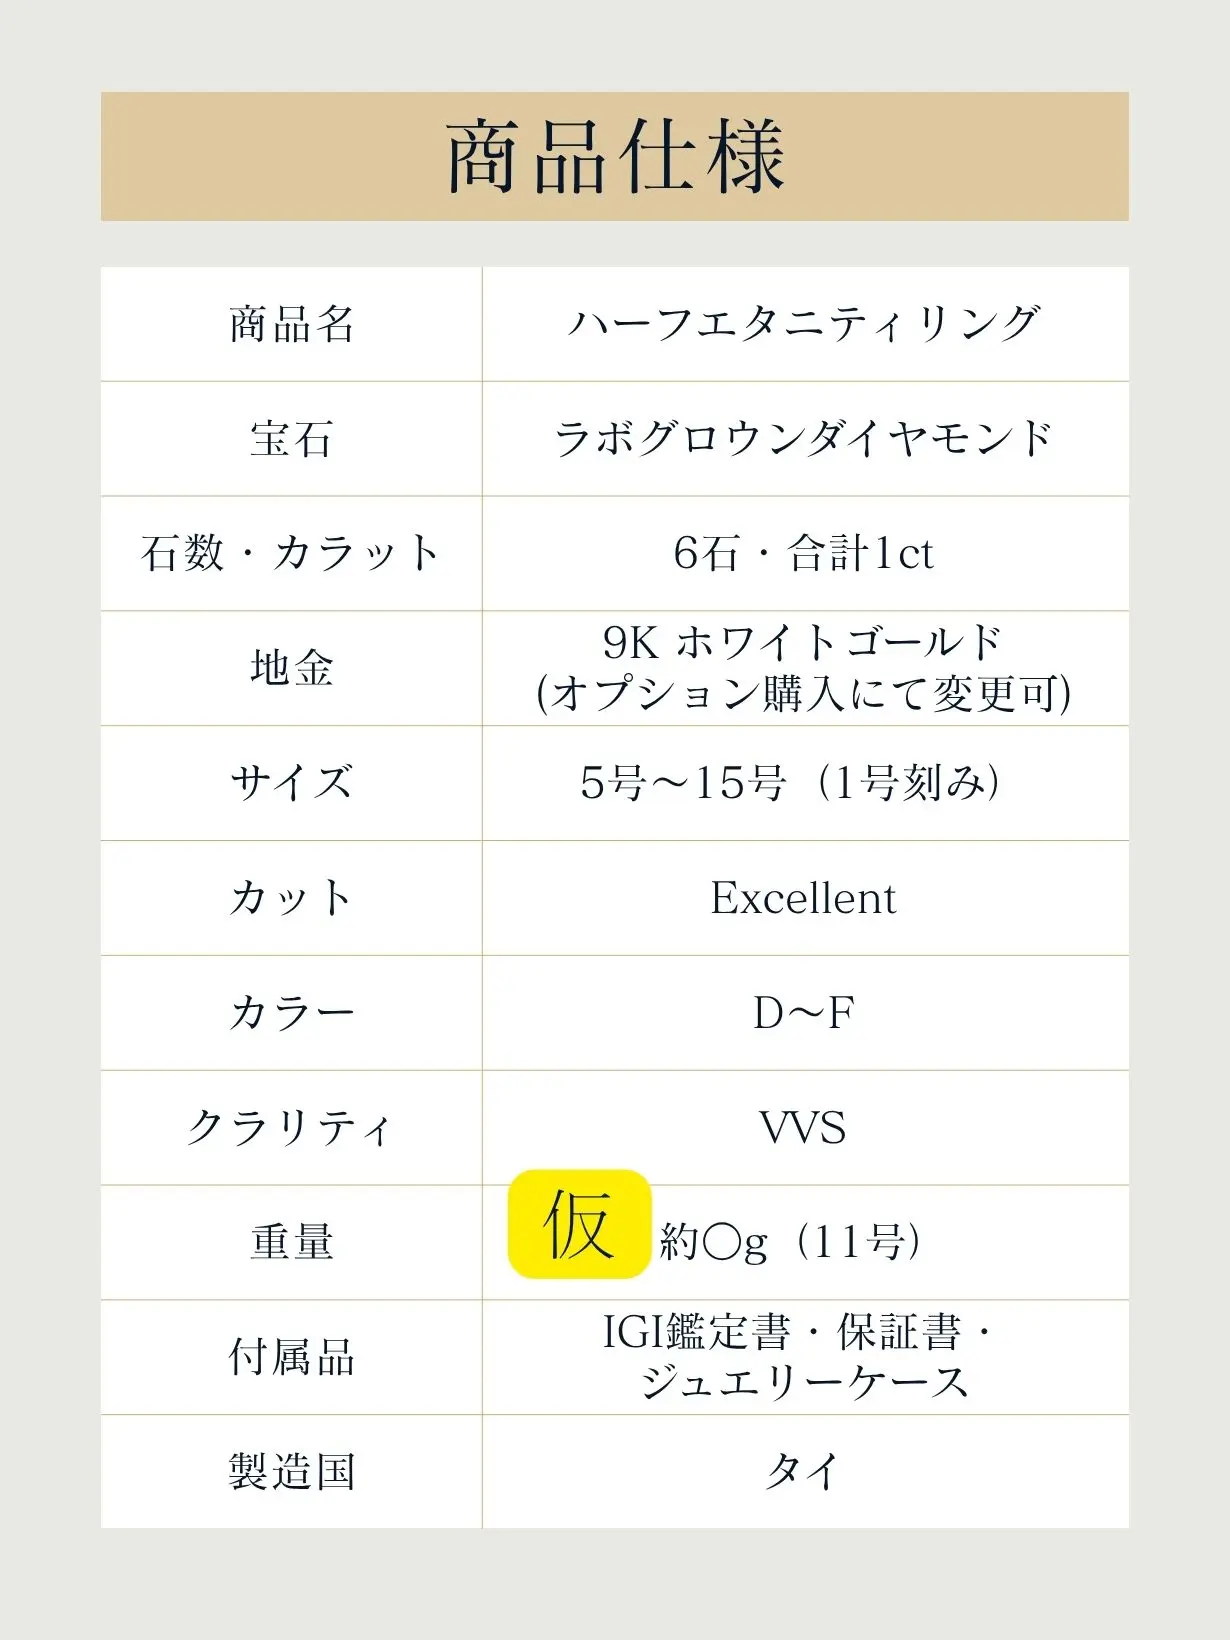
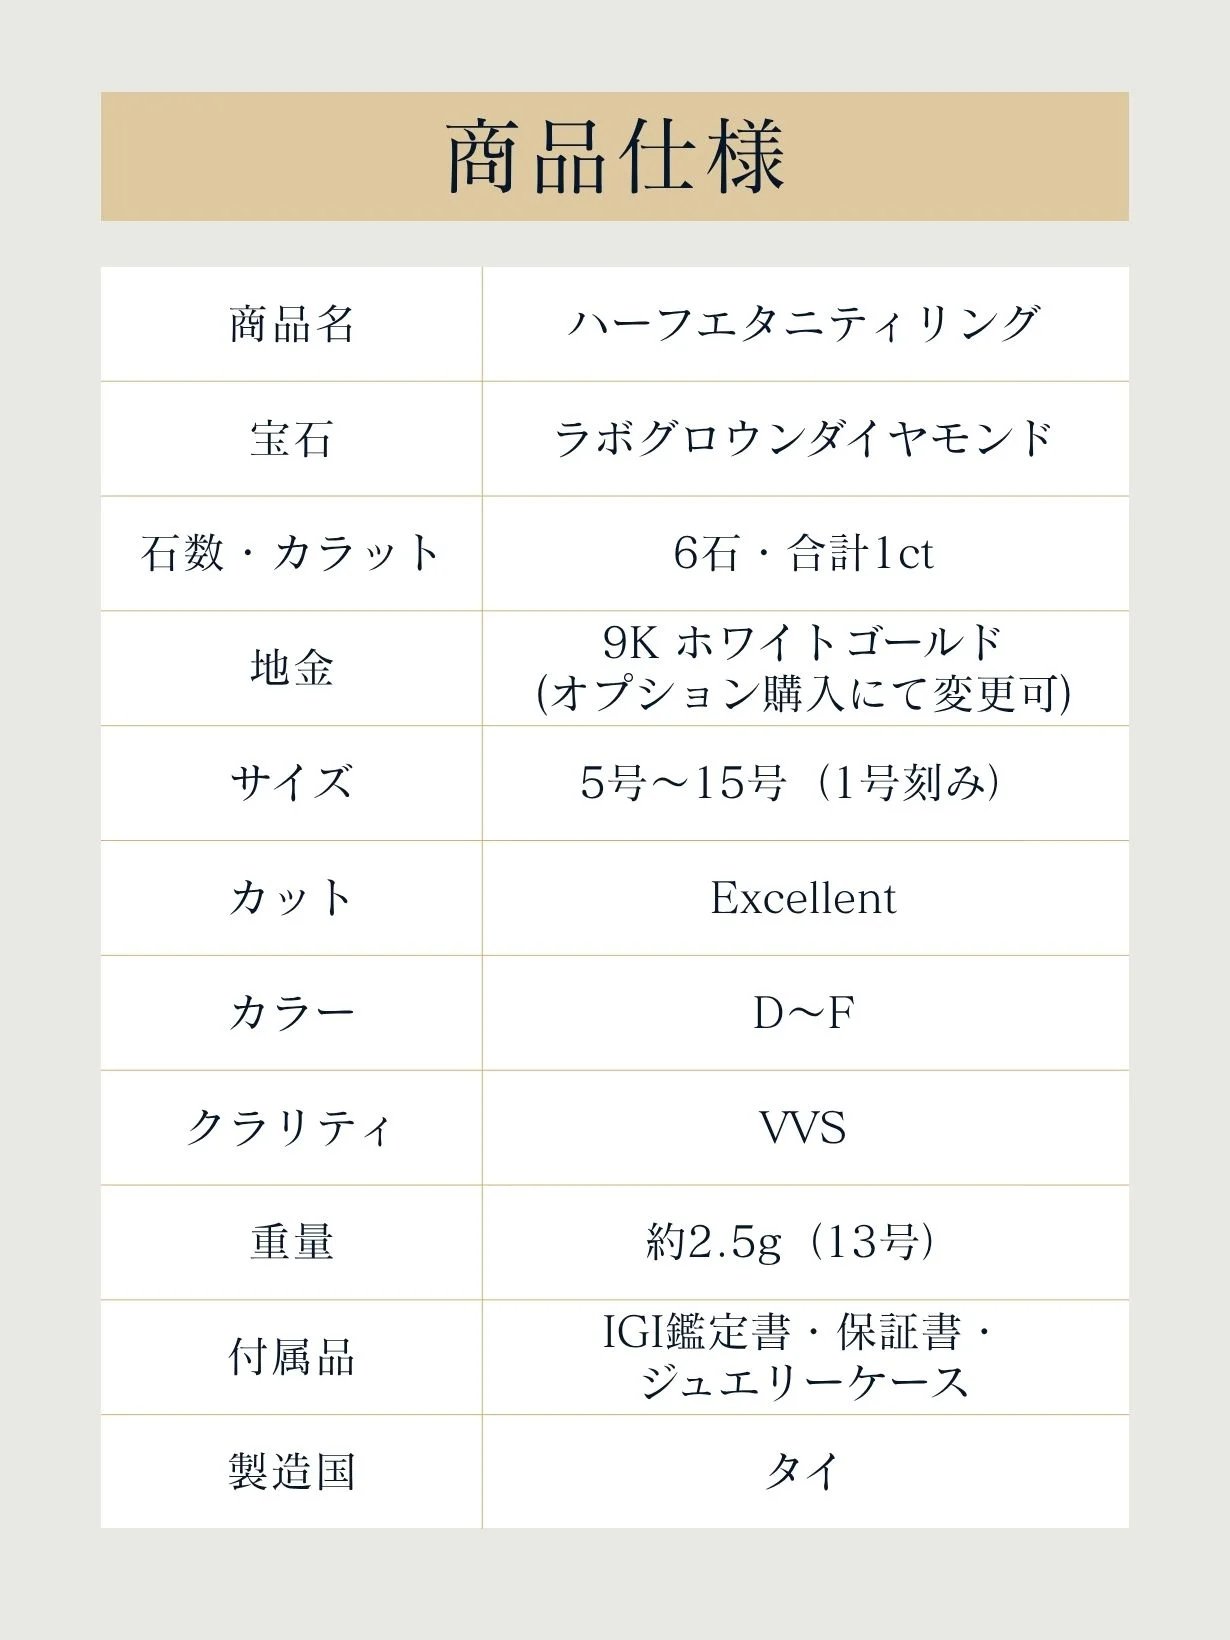
商品仕様の重量を仮表記から確定値(約2.5g・13号)に更新

Changed region(s): [[0.4016, 0.6841, 0.7724, 0.8085]]

diff --git a/index.html b/index.html
@@ -18,7 +18,7 @@
 .line-float.is-visible{opacity:1;visibility:visible;transform:none}
 .line-float svg{width:32px;height:auto}
 @media(prefers-reduced-motion:reduce){.line-float{transition:none}}
-</style></head><body><main aria-label="MOHS ハーフエタニティリング"><div class="hero-banner"><img src="assets/fv-main.webp" width="1230" height="2187" alt="MOHS 1ctの輝きを、もっと日常に ラボグロウンダイヤモンドが輝く、ハーフエタニティリング 12.1 Makuake 先行販売 超早割 ¥89,800 限定3点" loading="eager" decoding="async"><a class="line-cta" href="https://lin.ee/tXXrxcO" target="_blank" rel="noopener noreferrer"><span>LINE登録でお得に</span><span class="cta-arrow" aria-hidden="true"></span></a></div><img src="assets/fv-copy.webp" width="1230" height="1230" alt="仕事の日も、休日も なんでもない日を、ほんの少し特別に。ふと目に入るたびに嬉しくなる。いつもの装いのなかに大粒ダイヤモンドの輝きを。6石で合計1ct IGI鑑定書付き ハーフエタニティリング" loading="eager" decoding="async"><img src="assets/2.webp" width="1230" height="1640" alt="MOHS 商品紹介 3" loading="eager" decoding="async"><div class="sale-banner"><img src="assets/sale-cta.webp" width="1230" height="1640" alt="Makuake 12.1 TUE 12:00 START 超早割 限定3点 一般販売価格¥139,800(税込)から35%OFF ¥89,800(税込) LINE事前登録の方限定 開始日時・商品情報・早割情報をLINE友だちご登録で優先的にご案内します" loading="eager" decoding="async"><a class="line-cta" href="https://lin.ee/tXXrxcO" target="_blank" rel="noopener noreferrer"><span>LINE登録でお得に</span><span class="cta-arrow" aria-hidden="true"></span></a></div><video class="ring-video" src="assets/ring-sparkle.mp4" poster="assets/ring-sparkle-poster.webp" width="1280" height="720" autoplay muted loop playsinline preload="metadata" aria-label="指輪のダイヤモンドがきらめく様子"></video><img src="assets/5.webp" width="1230" height="350" alt="MOHS 商品紹介 6" loading="lazy" decoding="async"><img src="assets/6.webp" width="1230" height="2984" alt="MOHS 商品紹介 7" loading="lazy" decoding="async"><img src="assets/7.webp" width="1230" height="350" alt="MOHS 商品紹介 8" loading="lazy" decoding="async"><img src="assets/8.webp" width="1230" height="2984" alt="ダイヤモンド。実は、とっても日常向き 擦り傷に強い・水に強い ダイヤモンドはモース硬度で最高値の10。宝石の中で最も硬く、日常生活での擦り傷が付きにくいのが特徴です。リングの手のひら側は地金のみで仕立て、着け心地にも配慮しました。ダイヤモンドを留める爪には丸みを。ストッキングやニットにも引っかかりにくいよう、細部まで工夫しています。" loading="lazy" decoding="async"><img src="assets/9.gif" width="738" height="984" alt="MOHS 商品紹介 10" loading="lazy" decoding="async"><img src="assets/10.webp" width="1230" height="820" alt="MOHS 商品紹介 11" loading="lazy" decoding="async"><img src="assets/11.webp" width="1230" height="2984" alt="MOHS 商品紹介 12" loading="lazy" decoding="async"><img src="assets/12.webp" width="1230" height="1230" alt="MOHS 商品紹介 13" loading="lazy" decoding="async"><img src="assets/13.webp" width="1230" height="350" alt="MOHS 商品紹介 14" loading="lazy" decoding="async"><img src="assets/14.webp" width="1230" height="2984" alt="ダイヤモンドを支える地金には、9Kホワイトゴールドを選びました。01 金のジュエリーであること 金を37.5%含む9Kゴールド。02 日々のお手入れが楽であること 03 価格とのバランスがよいこと 18Kより金の含有率を抑え、石の存在感と金地金を、無理のない価格で。素材のアップグレードも可能です ご希望に応じて、18Kホワイトゴールド・プラチナ(Pt950)への変更も承ります。※オプション料金がかかります" loading="lazy" decoding="async"><img src="assets/17.webp" width="1230" height="350" alt="MOHS 商品紹介 18" loading="lazy" decoding="async"><img src="assets/18.webp" width="1230" height="3411" alt="アメリカでは、ラボグロウンダイヤモンドのシェアが約50%に達しています。天然約50.1% ラボグロウン約49.9%。天然由来の希少性だけではない、新しい価値観が世界中で広がっています。2026年10月には、テレビ東京「WBS」でも特集されました。ダイヤモンドの新しい選択肢として、存在感を増しています。※番組内では「人工ダイヤ」と表現されています。本商品が紹介されたものではありません。WBSの放送画面：京セラ手掛ける人工ダイヤ 世界で需要拡大、低価格の人工ダイヤに注目" loading="lazy" decoding="async"><img src="assets/19.webp" width="1230" height="350" alt="MOHS 商品紹介 20" loading="lazy" decoding="async"><img src="assets/20.webp" width="1230" height="1230" alt="MOHS 商品紹介 21" loading="lazy" decoding="async"><img src="assets/21.webp" width="1230" height="820" alt="IGI鑑定書付き IGI(International Gemological Institute)のラボグロウンダイヤモンド鑑定書のサンプルと、リングケースに入ったリング、MOHS TOKYOのカード" loading="lazy" decoding="async"><img src="assets/22.webp" width="1230" height="2984" alt="MOHS 商品紹介 23" loading="lazy" decoding="async"><aside class="quality-notes" aria-label="ダイヤモンドの品質と鑑定書についての注意事項"><p>※上記グレードは仕入れ元の品質基準です。カットグレードは鑑定書には記載されていません。</p><p>※鑑定書は完成品のリングに対して発行されるもので、一石ごとに付属するものではありません。</p></aside><img src="assets/23.webp" width="1230" height="350" alt="MOHS 商品紹介 24" loading="lazy" decoding="async"><div class="origin-copy"><p>世界各地から宝石やバイヤーが集まるタイは、ジュエリーの製造・取引で世界的に知られる拠点のひとつです。</p></div><img src="assets/24.webp" width="1230" height="1640" alt="MOHS 商品紹介 25" loading="lazy" decoding="async"><div class="origin-copy"><p>旅行先のこの地で、ラボグロウンダイヤモンドのジュエリーを手に取りました。</p><p>その美しさと、ダイヤモンドをもっと身近に楽しめる選択肢があることに、心を動かされました。</p><p><strong>「この輝きを、もっと日常の中で楽しめたら。」</strong></p><p>帰国後もその思いは変わらず、素材や品質、価格について検討を重ねました。</p></div><img src="assets/25.webp" width="1230" height="820" alt="MOHS 商品紹介 26" loading="lazy" decoding="async"><div class="origin-copy"><p>タイで出会ったジュエラーとのやり取りを通じて、その思いを形にしたのが、MOHS JEWELRYの最初のリングです。</p></div><div class="sale-banner"><img src="assets/sale-cta.webp" width="1230" height="1640" alt="Makuake 12.1 TUE 12:00 START 超早割 限定3点 一般販売価格¥139,800(税込)から35%OFF ¥89,800(税込) LINE事前登録の方限定 開始日時・商品情報・早割情報をLINE友だちご登録で優先的にご案内します" loading="lazy" decoding="async"><a class="line-cta" href="https://lin.ee/tXXrxcO" target="_blank" rel="noopener noreferrer"><span>LINE登録でお得に</span><span class="cta-arrow" aria-hidden="true"></span></a></div><img src="assets/26.webp" width="1230" height="350" alt="MOHS 商品紹介 27" loading="lazy" decoding="async"><img src="assets/27.webp" width="1230" height="1230" alt="MOHS 商品紹介 28" loading="lazy" decoding="async"><img src="assets/29.webp" width="1230" height="1230" alt="ハーフエタニティリングの商品写真 6石のダイヤモンドを正面から、リング内側の石座、内側の9K刻印" loading="lazy" decoding="async"><img src="assets/30.webp" width="1230" height="1640" alt="MOHS 商品紹介 31" loading="lazy" decoding="async"><img src="assets/31.webp" width="1230" height="1640" alt="MOHS 商品紹介 32" loading="lazy" decoding="async"><img src="assets/32.webp" width="1230" height="350" alt="MOHS 商品紹介 33" loading="lazy" decoding="async"><section class="detail-copy" aria-label="お届け後のサポートの詳細">
+</style></head><body><main aria-label="MOHS ハーフエタニティリング"><div class="hero-banner"><img src="assets/fv-main.webp" width="1230" height="2187" alt="MOHS 1ctの輝きを、もっと日常に ラボグロウンダイヤモンドが輝く、ハーフエタニティリング 12.1 Makuake 先行販売 超早割 ¥89,800 限定3点" loading="eager" decoding="async"><a class="line-cta" href="https://lin.ee/tXXrxcO" target="_blank" rel="noopener noreferrer"><span>LINE登録でお得に</span><span class="cta-arrow" aria-hidden="true"></span></a></div><img src="assets/fv-copy.webp" width="1230" height="1230" alt="仕事の日も、休日も なんでもない日を、ほんの少し特別に。ふと目に入るたびに嬉しくなる。いつもの装いのなかに大粒ダイヤモンドの輝きを。6石で合計1ct IGI鑑定書付き ハーフエタニティリング" loading="eager" decoding="async"><img src="assets/2.webp" width="1230" height="1640" alt="MOHS 商品紹介 3" loading="eager" decoding="async"><div class="sale-banner"><img src="assets/sale-cta.webp" width="1230" height="1640" alt="Makuake 12.1 TUE 12:00 START 超早割 限定3点 一般販売価格¥139,800(税込)から35%OFF ¥89,800(税込) LINE事前登録の方限定 開始日時・商品情報・早割情報をLINE友だちご登録で優先的にご案内します" loading="eager" decoding="async"><a class="line-cta" href="https://lin.ee/tXXrxcO" target="_blank" rel="noopener noreferrer"><span>LINE登録でお得に</span><span class="cta-arrow" aria-hidden="true"></span></a></div><video class="ring-video" src="assets/ring-sparkle.mp4" poster="assets/ring-sparkle-poster.webp" width="1280" height="720" autoplay muted loop playsinline preload="metadata" aria-label="指輪のダイヤモンドがきらめく様子"></video><img src="assets/5.webp" width="1230" height="350" alt="MOHS 商品紹介 6" loading="lazy" decoding="async"><img src="assets/6.webp" width="1230" height="2984" alt="MOHS 商品紹介 7" loading="lazy" decoding="async"><img src="assets/7.webp" width="1230" height="350" alt="MOHS 商品紹介 8" loading="lazy" decoding="async"><img src="assets/8.webp" width="1230" height="2984" alt="ダイヤモンド。実は、とっても日常向き 擦り傷に強い・水に強い ダイヤモンドはモース硬度で最高値の10。宝石の中で最も硬く、日常生活での擦り傷が付きにくいのが特徴です。リングの手のひら側は地金のみで仕立て、着け心地にも配慮しました。ダイヤモンドを留める爪には丸みを。ストッキングやニットにも引っかかりにくいよう、細部まで工夫しています。" loading="lazy" decoding="async"><img src="assets/9.gif" width="738" height="984" alt="MOHS 商品紹介 10" loading="lazy" decoding="async"><img src="assets/10.webp" width="1230" height="820" alt="MOHS 商品紹介 11" loading="lazy" decoding="async"><img src="assets/11.webp" width="1230" height="2984" alt="MOHS 商品紹介 12" loading="lazy" decoding="async"><img src="assets/12.webp" width="1230" height="1230" alt="MOHS 商品紹介 13" loading="lazy" decoding="async"><img src="assets/13.webp" width="1230" height="350" alt="MOHS 商品紹介 14" loading="lazy" decoding="async"><img src="assets/14.webp" width="1230" height="2984" alt="ダイヤモンドを支える地金には、9Kホワイトゴールドを選びました。01 金のジュエリーであること 金を37.5%含む9Kゴールド。02 日々のお手入れが楽であること 03 価格とのバランスがよいこと 18Kより金の含有率を抑え、石の存在感と金地金を、無理のない価格で。素材のアップグレードも可能です ご希望に応じて、18Kホワイトゴールド・プラチナ(Pt950)への変更も承ります。※オプション料金がかかります" loading="lazy" decoding="async"><img src="assets/17.webp" width="1230" height="350" alt="MOHS 商品紹介 18" loading="lazy" decoding="async"><img src="assets/18.webp" width="1230" height="3411" alt="アメリカでは、ラボグロウンダイヤモンドのシェアが約50%に達しています。天然約50.1% ラボグロウン約49.9%。天然由来の希少性だけではない、新しい価値観が世界中で広がっています。2026年10月には、テレビ東京「WBS」でも特集されました。ダイヤモンドの新しい選択肢として、存在感を増しています。※番組内では「人工ダイヤ」と表現されています。本商品が紹介されたものではありません。WBSの放送画面：京セラ手掛ける人工ダイヤ 世界で需要拡大、低価格の人工ダイヤに注目" loading="lazy" decoding="async"><img src="assets/19.webp" width="1230" height="350" alt="MOHS 商品紹介 20" loading="lazy" decoding="async"><img src="assets/20.webp" width="1230" height="1230" alt="MOHS 商品紹介 21" loading="lazy" decoding="async"><img src="assets/21.webp" width="1230" height="820" alt="IGI鑑定書付き IGI(International Gemological Institute)のラボグロウンダイヤモンド鑑定書のサンプルと、リングケースに入ったリング、MOHS TOKYOのカード" loading="lazy" decoding="async"><img src="assets/22.webp" width="1230" height="2984" alt="MOHS 商品紹介 23" loading="lazy" decoding="async"><aside class="quality-notes" aria-label="ダイヤモンドの品質と鑑定書についての注意事項"><p>※上記グレードは仕入れ元の品質基準です。カットグレードは鑑定書には記載されていません。</p><p>※鑑定書は完成品のリングに対して発行されるもので、一石ごとに付属するものではありません。</p></aside><img src="assets/23.webp" width="1230" height="350" alt="MOHS 商品紹介 24" loading="lazy" decoding="async"><div class="origin-copy"><p>世界各地から宝石やバイヤーが集まるタイは、ジュエリーの製造・取引で世界的に知られる拠点のひとつです。</p></div><img src="assets/24.webp" width="1230" height="1640" alt="MOHS 商品紹介 25" loading="lazy" decoding="async"><div class="origin-copy"><p>旅行先のこの地で、ラボグロウンダイヤモンドのジュエリーを手に取りました。</p><p>その美しさと、ダイヤモンドをもっと身近に楽しめる選択肢があることに、心を動かされました。</p><p><strong>「この輝きを、もっと日常の中で楽しめたら。」</strong></p><p>帰国後もその思いは変わらず、素材や品質、価格について検討を重ねました。</p></div><img src="assets/25.webp" width="1230" height="820" alt="MOHS 商品紹介 26" loading="lazy" decoding="async"><div class="origin-copy"><p>タイで出会ったジュエラーとのやり取りを通じて、その思いを形にしたのが、MOHS JEWELRYの最初のリングです。</p></div><div class="sale-banner"><img src="assets/sale-cta.webp" width="1230" height="1640" alt="Makuake 12.1 TUE 12:00 START 超早割 限定3点 一般販売価格¥139,800(税込)から35%OFF ¥89,800(税込) LINE事前登録の方限定 開始日時・商品情報・早割情報をLINE友だちご登録で優先的にご案内します" loading="lazy" decoding="async"><a class="line-cta" href="https://lin.ee/tXXrxcO" target="_blank" rel="noopener noreferrer"><span>LINE登録でお得に</span><span class="cta-arrow" aria-hidden="true"></span></a></div><img src="assets/26.webp" width="1230" height="350" alt="MOHS 商品紹介 27" loading="lazy" decoding="async"><img src="assets/27.webp" width="1230" height="1230" alt="MOHS 商品紹介 28" loading="lazy" decoding="async"><img src="assets/29.webp" width="1230" height="1230" alt="ハーフエタニティリングの商品写真 6石のダイヤモンドを正面から、リング内側の石座、内側の9K刻印" loading="lazy" decoding="async"><img src="assets/30.webp" width="1230" height="1640" alt="商品仕様 商品名：ハーフエタニティリング 宝石：ラボグロウンダイヤモンド 石数・カラット：6石・合計1ct 地金：9Kホワイトゴールド(オプション購入にて変更可) サイズ：5号〜15号(1号刻み) カット：Excellent カラー：D〜F クラリティ：VVS 重量：約2.5g(13号) 付属品：IGI鑑定書・保証書・ジュエリーケース 製造国：タイ" loading="lazy" decoding="async"><img src="assets/31.webp" width="1230" height="1640" alt="MOHS 商品紹介 32" loading="lazy" decoding="async"><img src="assets/32.webp" width="1230" height="350" alt="MOHS 商品紹介 33" loading="lazy" decoding="async"><section class="detail-copy" aria-label="お届け後のサポートの詳細">
 <p>長くご愛用いただけるよう、修理やサイズ直しなど、お届け後のご相談も承ります。</p>
 <h3>品質保証</h3><p>お届け時に初期不良が認められた場合は、無償で修理または交換いたします。商品到着後14日以内にご連絡ください。</p>
 <h3>修理・サイズ直し</h3><p>ご使用による傷・変形・破損や、サイズ直しは有償で承ります。対応の可否や費用は、リングの状態により異なります。</p>
